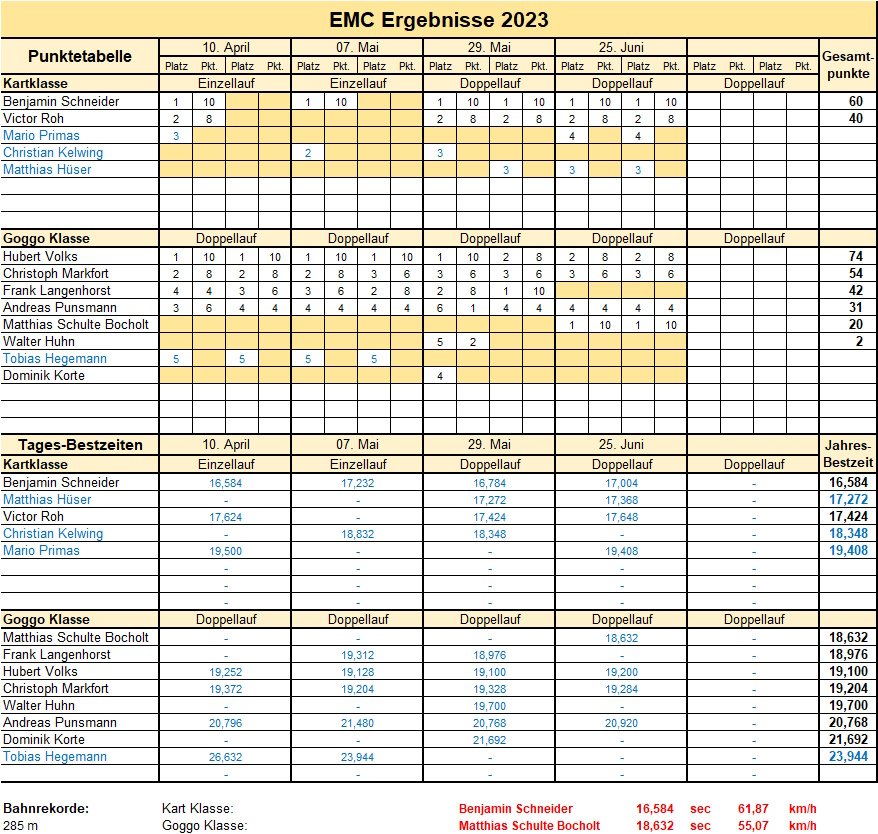
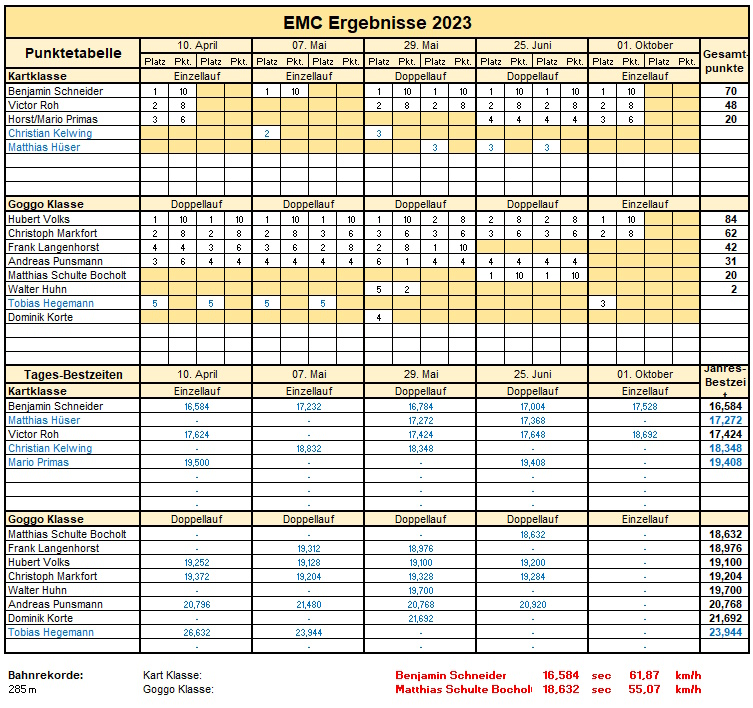
Oktober

diff --git a/index.html b/index.html
@@ -8,6 +8,45 @@ description: Kartsport mit "Goggo"-Karts und konventionellen Karts
 <!-------------------------------------------------------------------------->
 <h2 align="center">Das Jahr 2023</h2>
 
+<h3 align="center">5. Lauf um den Jahrespokal des EMC am 1. OktoberMai 2023</h3>
+<p align="justify">
+  Der 5. und letzte Lauf in diesem Jahr wurde leider nur unter sehr geringer
+  Beteiligung der Fahrer durchgeführt. In den einzelnen Klassen waren jeweils
+  nur 3 Fahrer mit ihren Fahrzeugen angetreten. Daher wurde jeweils nur ein
+  Lauf ddurchgeführt, welche auch noch durch Aufälle wegen technischer Defekte
+  geprägt waren. Von Tobias Hegemann wurde ein Elektro-Kart vorgestellt, welches
+  bei allen Anwesenden großes Interesse hervorgerufen hat.
+</p>
+<p align="justify">
+  In der Goggo-Klasse siegte Hubert Volks vor Christoph Markfort und Tobias
+  Hegemann.
+</p>
+<p align="justify">
+  In der Kartklasse siegte Benjamin Schneider vor Victor Roh und Horst Primas.
+</p>
+<figure class="gesamt">           <!-- 2 Bilder nebeneinander anordnen -->
+      <figure class="einzel2">    <!-- Originalgröße 1630 x 1400 einstellen -->
+           <img src="img/rennen/2023.10.01_goggo.jpg" alt="Sieger Goggo" />
+           <figcaption>Tagessieger Goggo</figcaption>
+      </figure>
+      <figure class="einzel2">
+           <img src="img/rennen/2023.10.01_kart.jpg" alt="Sieger Kart" />
+           <figcaption>Tagessieger Kart</figcaption>
+      </figure>
+</figure>
+<div class="textspalten2">       <!-- Bildunterschrift in 2 Spalten anordnen -->
+   <ul>
+    	<li>1. Hubert Volks</li>
+   		<li>2. Christoph Markfort</li>
+   		<li>3. Tobias Hegemann</li>
+   		<li></li>
+   		<li>1. Benjamin Schneider</li>
+      <li>2. Victor Roh</li>
+      <li>3. Horst Primas</li>
+      <li></li>
+   </ul>
+</div>
+
 <h3 align="center">3. Lauf um den Jahrespokal des EMC am 29. Mai 2023</h3>
 <p align="justify">
   Das traditionelle Pfingstmontag-Rennen konnte bei schönem Wetter durchgeführt
